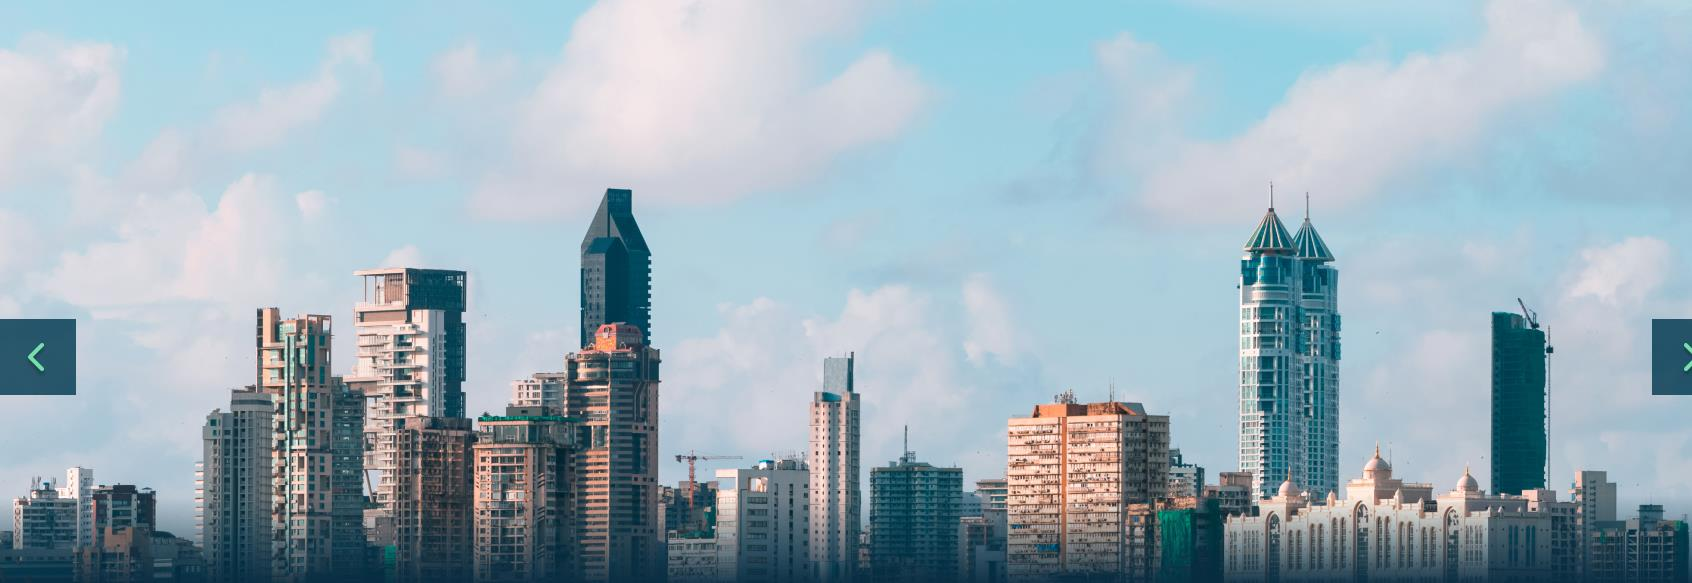
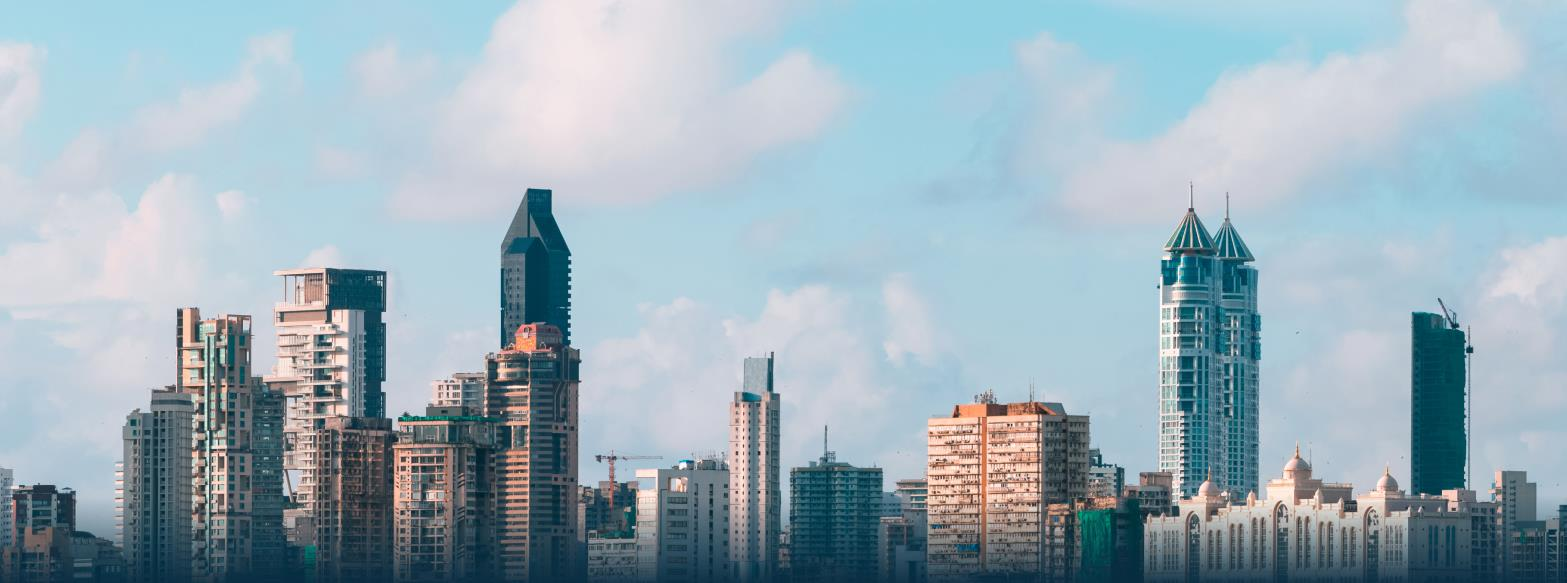
fix: remove duplicate artwork controls and refine listing spacing

diff --git a/theme/assets/site.css b/theme/assets/site.css
@@ -84,7 +84,7 @@ p { margin: 0 0 1rem; }
 .filters a:hover { background: #e5f1f4; }
 .filters a[aria-current="page"] { background: var(--card); color: #fff; border-color: var(--card); }
 .listing-status { margin-top: 1rem; text-align: center; }
-.programme-group + .programme-group { margin-top: 2.6rem; }
+[data-selected="all"] .programme-group + .programme-group { margin-top: 2.6rem; }
 [data-selected]:not([data-selected="all"]) .programme-group > h2,
 [data-selected="undergraduate"] [data-group="postgraduate"],
 [data-selected="postgraduate"] [data-group="undergraduate"] { display: none; }
